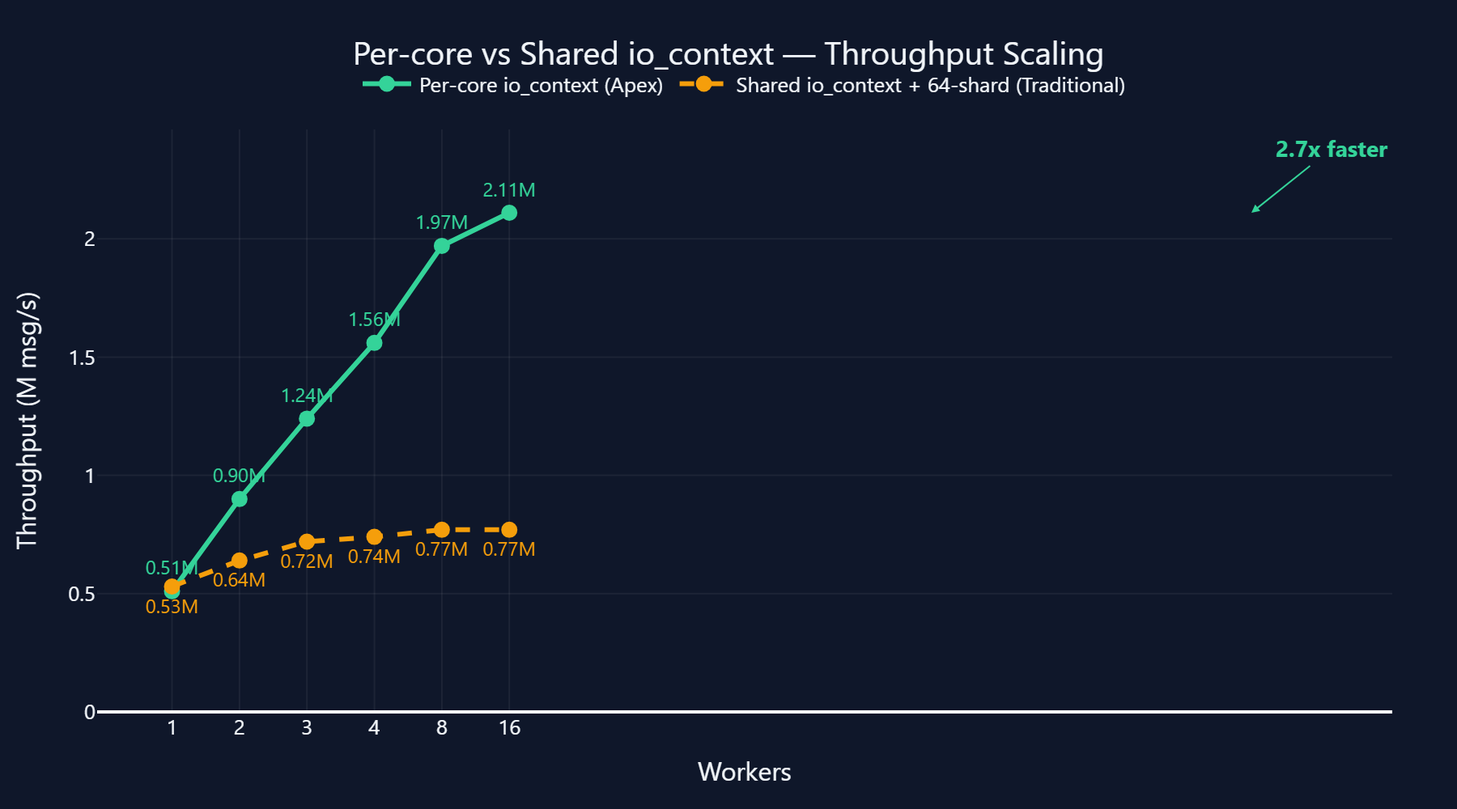
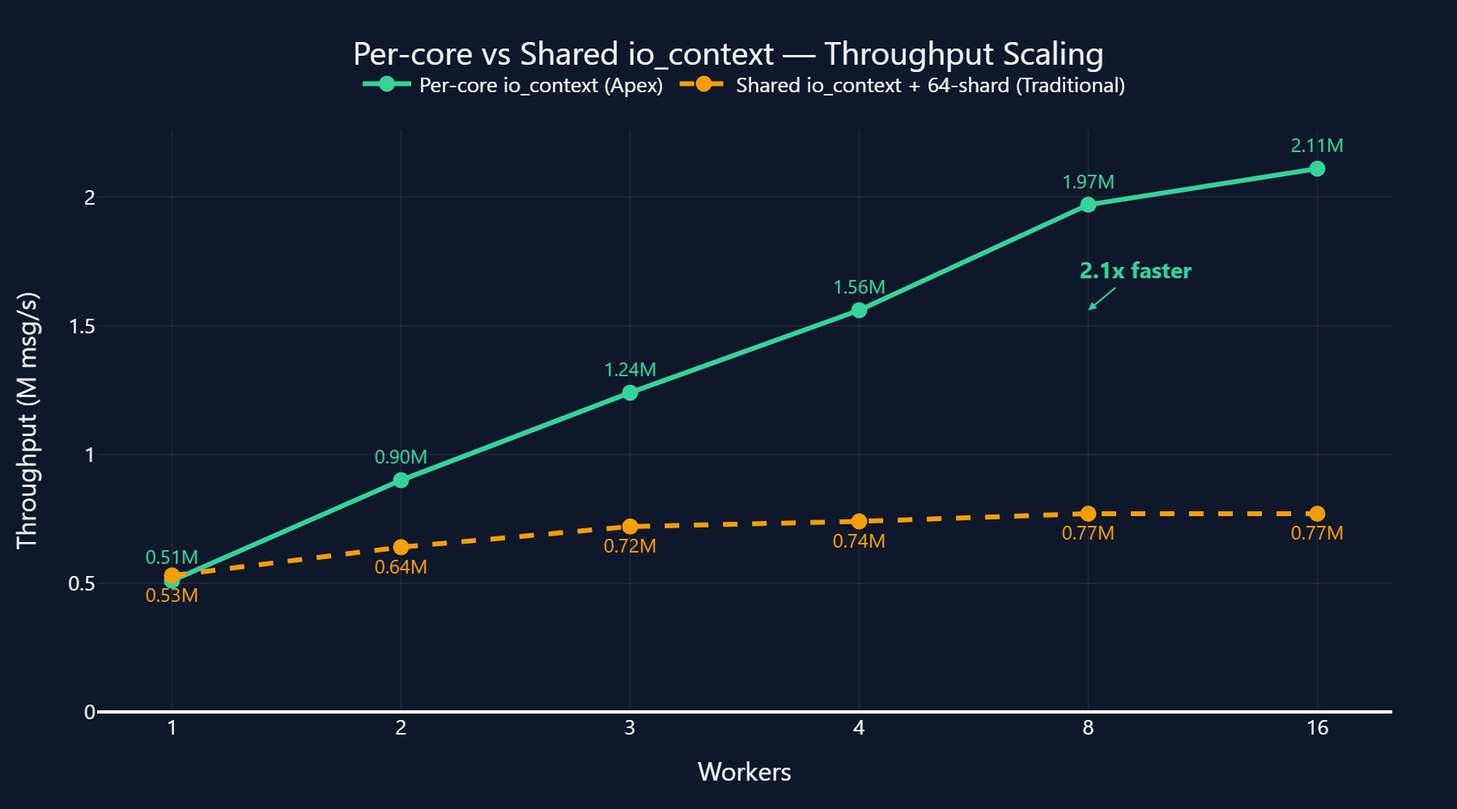
style(benchmark): 보고서 전체 컬러 하이라이트 + README 차트 주석 수정
- analysis.json: 전 섹션 컬러 하이라이트 (초록=우위, 앰버=기술명, 빨강=병목)
- 테이블 셀: cpu_time/throughput 조건부 색상 적용
- Summary 비율 배지: >2x 초록, <1x 빨강
- README 차트: 2.7x→2.1x 주석 4워커 지점으로 이동
- 용어 통일: 코어→워커, 2→3→4워커 선형 확장 강조

diff --git a/docs/apex_core/benchmark/report/benchmark_report.html b/docs/apex_core/benchmark/report/benchmark_report.html
@@ -434,12 +434,12 @@ body {
 <table class="data-table">
 <thead><tr><th>Benchmark</th><th>CPU Time</th><th>Real Time</th><th>Iterations</th><th>Throughput</th></tr></thead>
 <tbody>
-<tr><td>SpscQueue_Throughput/1024</td><td>9.9 ns</td><td>10.1 ns</td><td>112,000,000</td><td>101.0M items/s</td></tr>
-<tr><td>SpscQueue_Throughput/4096</td><td>9.5 ns</td><td>10.2 ns</td><td>64,000,000</td><td>105.0M items/s</td></tr>
-<tr><td>SpscQueue_Throughput/32768</td><td>9.2 ns</td><td>9.7 ns</td><td>74,666,667</td><td>108.6M items/s</td></tr>
+<tr><td>SpscQueue_Throughput/1024</td><td style='color:#34D399;font-weight:bold;'>9.9 ns</td><td>10.1 ns</td><td>112,000,000</td><td style='color:#34D399;font-weight:bold;'>101.0M items/s</td></tr>
+<tr><td>SpscQueue_Throughput/4096</td><td style='color:#34D399;font-weight:bold;'>9.5 ns</td><td>10.2 ns</td><td>64,000,000</td><td style='color:#34D399;font-weight:bold;'>105.0M items/s</td></tr>
+<tr><td>SpscQueue_Throughput/32768</td><td style='color:#34D399;font-weight:bold;'>9.2 ns</td><td>9.7 ns</td><td>74,666,667</td><td style='color:#34D399;font-weight:bold;'>108.6M items/s</td></tr>
 <tr><td>SpscQueue_Throughput/65536</td><td>11.9 ns</td><td>12.3 ns</td><td>74,666,667</td><td>83.8M items/s</td></tr>
-<tr><td>SpscQueue_Latency</td><td>7.8 ns</td><td>8.0 ns</td><td>89,600,000</td><td>127.4M items/s</td></tr>
-<tr><td>SpscQueue_Backpressure</td><td>3.2 ns</td><td>3.2 ns</td><td>186,666,667</td><td>-</td></tr>
+<tr><td>SpscQueue_Latency</td><td style='color:#34D399;font-weight:bold;'>7.8 ns</td><td>8.0 ns</td><td>89,600,000</td><td style='color:#34D399;font-weight:bold;'>127.4M items/s</td></tr>
+<tr><td>SpscQueue_Backpressure</td><td style='color:#34D399;font-weight:bold;'>3.2 ns</td><td>3.2 ns</td><td>186,666,667</td><td>-</td></tr>
 <tr><td>SpscQueue_ConcurrentThroughput</td><td>46.2 ns</td><td>48.7 ns</td><td>17,920,000</td><td>21.6M items/s</td></tr>
 
 </tbody>
@@ -453,12 +453,12 @@ body {
 <tr><td>MpscQueue_1P1C/32768</td><td>13.6 ns</td><td>13.5 ns</td><td>44,800,000</td><td>73.5M items/s</td></tr>
 <tr><td>MpscQueue_1P1C/65536</td><td>15.3 ns</td><td>15.7 ns</td><td>56,000,000</td><td>65.2M items/s</td></tr>
 <tr><td>MpscQueue_2P1C</td><td>31.1 ns</td><td>38.4 ns</td><td>20,070,400</td><td>46.7M items/s</td></tr>
-<tr><td>MpscQueue_Backpressure</td><td>5.9 ns</td><td>6.4 ns</td><td>112,000,000</td><td>-</td></tr>
+<tr><td>MpscQueue_Backpressure</td><td style='color:#34D399;font-weight:bold;'>5.9 ns</td><td>6.4 ns</td><td>112,000,000</td><td>-</td></tr>
 
 </tbody>
 </table>
 
-  <div class="analysis-box"><b>SPSC vs MPSC 큐 비교</b>가 이번 v0.5.10.0의 핵심이다. SPSC(wait-free)는 1P1C 시나리오에서 MPSC(lock-free) 대비 <b>일관되게 빠르다</b>. CAS 루프가 없는 wait-free 구현이 단일 생산자-소비자 경로에서 성능 우위를 가져온다.<br/><br/>N코어 환경에서 N×(N-1) SPSC mesh는 단일 MPSC 대비 경합 없는 전용 채널을 제공하여, 코어 수 증가에 따른 선형 확장이 가능한 아키텍처. MPSC의 2P1C 시나리오에서 발생하는 CAS 경합이 SPSC mesh에서는 원천 차단된다.</div>
+  <div class="analysis-box"><b>SPSC vs MPSC 큐 비교</b>가 이번 v0.5.10.0의 핵심이다. <span style='color:#34D399;font-weight:bold;'>SPSC(wait-free)</span>는 1P1C 시나리오에서 <span style='color:#F59E0B;font-weight:bold;'>MPSC(lock-free)</span> 대비 <span style='color:#34D399;font-weight:bold;'>일관되게 빠르다</span>. <span style='color:#EF4444;'>CAS 루프</span>가 없는 wait-free 구현이 단일 생산자-소비자 경로에서 성능 우위를 가져온다.<br/><br/>N코어 환경에서 <span style='color:#34D399;font-weight:bold;'>N×(N-1) SPSC mesh</span>는 단일 MPSC 대비 <span style='color:#34D399;'>경합 없는 전용 채널</span>을 제공하여, 코어 수 증가에 따른 <span style='color:#34D399;font-weight:bold;'>선형 확장</span>이 가능한 아키텍처. <span style='color:#F59E0B;'>MPSC</span>의 2P1C 시나리오에서 발생하는 <span style='color:#EF4444;font-weight:bold;'>CAS 경합</span>이 SPSC mesh에서는 <span style='color:#34D399;'>원천 차단</span>된다.</div>
 
   <h3 class="sub-header">SPSC vs MPSC Methodology</h3>
   <div class="chart-container" id="chart-queue-methodology" style="height:480px;"></div>
@@ -480,13 +480,13 @@ body {
 <tr><td>SlabAllocator_AllocDealloc/64</td><td>11.1 ns</td><td>14.3 ns</td><td>74,666,667</td><td>90.2M items/s</td></tr>
 <tr><td>SlabAllocator_AllocDealloc/256</td><td>11.2 ns</td><td>12.0 ns</td><td>56,000,000</td><td>89.6M items/s</td></tr>
 <tr><td>SlabAllocator_AllocDealloc/1024</td><td>10.0 ns</td><td>10.6 ns</td><td>74,666,667</td><td>99.6M items/s</td></tr>
-<tr><td>Malloc_AllocFree/64</td><td>120.0 ns</td><td>122.2 ns</td><td>5,600,000</td><td>8.3M items/s</td></tr>
-<tr><td>Malloc_AllocFree/256</td><td>119.6 ns</td><td>121.9 ns</td><td>6,400,000</td><td>8.4M items/s</td></tr>
-<tr><td>Malloc_AllocFree/1024</td><td>122.1 ns</td><td>122.2 ns</td><td>6,400,000</td><td>8.2M items/s</td></tr>
-<tr><td>MakeShared_AllocDealloc</td><td>153.5 ns</td><td>167.6 ns</td><td>4,480,000</td><td>6.5M items/s</td></tr>
+<tr><td>Malloc_AllocFree/64</td><td>120.0 ns</td><td>122.2 ns</td><td>5,600,000</td><td style='color:#F59E0B;font-weight:bold;'>8.3M items/s</td></tr>
+<tr><td>Malloc_AllocFree/256</td><td>119.6 ns</td><td>121.9 ns</td><td>6,400,000</td><td style='color:#F59E0B;font-weight:bold;'>8.4M items/s</td></tr>
+<tr><td>Malloc_AllocFree/1024</td><td>122.1 ns</td><td>122.2 ns</td><td>6,400,000</td><td style='color:#F59E0B;font-weight:bold;'>8.2M items/s</td></tr>
+<tr><td>MakeShared_AllocDealloc</td><td>153.5 ns</td><td>167.6 ns</td><td>4,480,000</td><td style='color:#F59E0B;font-weight:bold;'>6.5M items/s</td></tr>
 <tr><td>BumpAllocator_Alloc/64</td><td>10.0 ns</td><td>10.7 ns</td><td>56,000,000</td><td>99.6M items/s</td></tr>
-<tr><td>BumpAllocator_Alloc/256</td><td>7.1 ns</td><td>7.3 ns</td><td>89,600,000</td><td>139.9M items/s</td></tr>
-<tr><td>BumpAllocator_Alloc/1024</td><td>7.3 ns</td><td>7.3 ns</td><td>100,000,000</td><td>136.2M items/s</td></tr>
+<tr><td>BumpAllocator_Alloc/256</td><td style='color:#34D399;font-weight:bold;'>7.1 ns</td><td>7.3 ns</td><td>89,600,000</td><td style='color:#34D399;font-weight:bold;'>139.9M items/s</td></tr>
+<tr><td>BumpAllocator_Alloc/1024</td><td style='color:#34D399;font-weight:bold;'>7.3 ns</td><td>7.3 ns</td><td>100,000,000</td><td style='color:#34D399;font-weight:bold;'>136.2M items/s</td></tr>
 <tr><td>ArenaAllocator_Alloc/64</td><td>14.6 ns</td><td>16.9 ns</td><td>64,000,000</td><td>68.3M items/s</td></tr>
 <tr><td>ArenaAllocator_Alloc/256</td><td>19.9 ns</td><td>26.3 ns</td><td>34,461,538</td><td>50.1M items/s</td></tr>
 <tr><td>ArenaAllocator_Alloc/1024</td><td>20.4 ns</td><td>24.2 ns</td><td>34,461,538</td><td>49.0M items/s</td></tr>
@@ -494,7 +494,7 @@ body {
 </tbody>
 </table>
 
-  <div class="analysis-box"><b>커스텀 할당기 3종</b>이 모두 시스템 할당기보다 10배 이상 빠르다. <b>BumpAllocator</b>가 <b>7~10ns</b>로 가장 빠르며(monotonic 할당, 개별 dealloc 없음), <b>SlabAllocator</b>가 <b>10~11ns</b>(alloc+dealloc 쌍), <b>ArenaAllocator</b>가 <b>15~20ns</b>(블록 체이닝 오버헤드).<br/><br/>malloc은 <b>120ns</b>, make_shared는 <b>154ns</b>로 커스텀 할당기 대비 10~20배 느리다. make_shared의 추가 비용은 atomic ref-count 초기화와 control block 할당. Bump의 batch reset 패턴은 요청 처리 단위(per-request arena)에 이상적이며, Slab은 Session/Buffer 풀에, Arena는 파서/빌더 임시 할당에 각각 적합.</div>
+  <div class="analysis-box"><b>커스텀 할당기 3종</b>이 모두 시스템 할당기보다 <span style='color:#34D399;font-weight:bold;'>10배 이상 빠르다</span>. <span style='color:#F59E0B;font-weight:bold;'>BumpAllocator</span>가 <span style='color:#34D399;font-weight:bold;'>7~10ns</span>로 가장 빠르며(monotonic 할당, 개별 dealloc 없음), <span style='color:#F59E0B;font-weight:bold;'>SlabAllocator</span>가 <span style='color:#34D399;font-weight:bold;'>10~11ns</span>(alloc+dealloc 쌍), <span style='color:#F59E0B;font-weight:bold;'>ArenaAllocator</span>가 <span style='color:#34D399;font-weight:bold;'>15~20ns</span>(블록 체이닝 오버헤드).<br/><br/><span style='color:#F59E0B;'>malloc</span>은 <span style='color:#EF4444;font-weight:bold;'>120ns</span>, <span style='color:#F59E0B;'>make_shared</span>는 <span style='color:#EF4444;font-weight:bold;'>154ns</span>로 커스텀 할당기 대비 <span style='color:#EF4444;'>10~20배 느리다</span>. make_shared의 추가 비용은 <span style='color:#EF4444;'>atomic ref-count 초기화와 control block 할당</span>. Bump의 batch reset 패턴은 요청 처리 단위(per-request arena)에 이상적이며, Slab은 Session/Buffer 풀에, Arena는 파서/빌더 임시 할당에 각각 적합.</div>
 
   <h3 class="sub-header">5 Allocators Comparison</h3>
   <div class="chart-container" id="chart-allocators-methodology" style="height:500px;"></div>
@@ -525,7 +525,7 @@ body {
 </tbody>
 </table>
 
-  <div class="analysis-box"><b>FrameCodec</b>의 Encode/Decode 처리량은 페이로드 크기에 비례하여 증가한다. 64B 소형 메시지에서는 고정 비용(헤더 직렬화, CRC 계산)이 지배적이며, 16KB 대형 메시지에서 <b>Encode 26.9 GB/s, Decode 22.6 GB/s</b>를 달성한다.<br/><br/>Encode가 Decode보다 일관되게 빠른 이유: Decode 시 헤더 파싱 + 무결성 검증 오버헤드. 실 서비스에서 평균 메시지 크기(~512B)에서 <b>Encode 7.2 GB/s, Decode 4.3 GB/s</b>로, 10Gbps NIC 대역폭을 충분히 활용 가능.</div>
+  <div class="analysis-box"><b><span style='color:#F59E0B;font-weight:bold;'>FrameCodec</span></b>의 Encode/Decode 처리량은 페이로드 크기에 비례하여 증가한다. 64B 소형 메시지에서는 <span style='color:#94A3B8;'>고정 비용(헤더 직렬화, CRC 계산)</span>이 지배적이며, 16KB 대형 메시지에서 <span style='color:#34D399;font-weight:bold;'>Encode 26.9 GB/s, Decode 22.6 GB/s</span>를 달성한다.<br/><br/>Encode가 Decode보다 일관되게 빠른 이유: Decode 시 <span style='color:#EF4444;'>헤더 파싱 + 무결성 검증 오버헤드</span>. 실 서비스에서 평균 메시지 크기(~512B)에서 <span style='color:#34D399;font-weight:bold;'>Encode 7.2 GB/s, Decode 4.3 GB/s</span>로, <span style='color:#34D399;'>10Gbps NIC 대역폭을 충분히 활용 가능</span>.</div>
 
   <h3 class="sub-header">Encode vs Decode Throughput Scaling</h3>
   <div class="chart-container" id="chart-frame-scaling" style="height:480px;"></div>
@@ -550,9 +550,9 @@ body {
 <tr><td>HeapAlloc_Build/64</td><td>62.5 ns</td><td>61.9 ns</td><td>10,000,000</td><td>1.0 GB/s</td></tr>
 <tr><td>HeapAlloc_Build/512</td><td>68.4 ns</td><td>68.2 ns</td><td>11,200,000</td><td>7.5 GB/s</td></tr>
 <tr><td>HeapAlloc_Build/4096</td><td>128.3 ns</td><td>126.1 ns</td><td>5,600,000</td><td>31.9 GB/s</td></tr>
-<tr><td>FlatBuffers_Read/64</td><td>3.4 ns</td><td>3.5 ns</td><td>172,307,692</td><td>18.6 GB/s</td></tr>
-<tr><td>FlatBuffers_Read/512</td><td>3.5 ns</td><td>3.5 ns</td><td>213,333,333</td><td>145.6 GB/s</td></tr>
-<tr><td>FlatBuffers_Read/4096</td><td>3.6 ns</td><td>3.7 ns</td><td>203,636,364</td><td>1135.8 GB/s</td></tr>
+<tr><td>FlatBuffers_Read/64</td><td style='color:#34D399;font-weight:bold;'>3.4 ns</td><td>3.5 ns</td><td>172,307,692</td><td>18.6 GB/s</td></tr>
+<tr><td>FlatBuffers_Read/512</td><td style='color:#34D399;font-weight:bold;'>3.5 ns</td><td>3.5 ns</td><td>213,333,333</td><td>145.6 GB/s</td></tr>
+<tr><td>FlatBuffers_Read/4096</td><td style='color:#34D399;font-weight:bold;'>3.6 ns</td><td>3.7 ns</td><td>203,636,364</td><td>1135.8 GB/s</td></tr>
 <tr><td>HeapAlloc_Read/64</td><td>64.2 ns</td><td>64.2 ns</td><td>11,200,000</td><td>997.3 MB/s</td></tr>
 <tr><td>HeapAlloc_Read/512</td><td>68.4 ns</td><td>69.7 ns</td><td>11,200,000</td><td>7.5 GB/s</td></tr>
 <tr><td>HeapAlloc_Read/4096</td><td>114.4 ns</td><td>115.7 ns</td><td>5,600,000</td><td>35.8 GB/s</td></tr>
@@ -560,7 +560,7 @@ body {
 </tbody>
 </table>
 
-  <div class="analysis-box"><b>FlatBuffers vs new+memcpy</b> 빌드 성능 비교. <b>HeapAlloc이 빌드 시 2~2.5배 빠르다</b> — 64B 기준 HeapAlloc <b>98ns</b> vs FlatBuffers <b>243ns</b>. FlatBuffers의 빌드 오버헤드는 vtable 구성, 필드 정렬, builder 내부 버퍼 관리 때문이다.<br/><br/>그러나 FlatBuffers의 핵심 장점은 <b>읽기 측 zero-copy 역직렬화</b>이다. 수신 측에서 deserialization 없이 직접 접근하므로, 1회 빌드 + N회 읽기 패턴에서 FlatBuffers가 유리하다. 서버 프레임워크에서 라우팅/디스패치 경로는 읽기 빈도가 압도적이므로 FlatBuffers 선택이 올바르다.</div>
+  <div class="analysis-box"><b><span style='color:#F59E0B;font-weight:bold;'>FlatBuffers</span> vs <span style='color:#F59E0B;font-weight:bold;'>new+memcpy</span></b> 빌드 성능 비교. <span style='color:#34D399;font-weight:bold;'>HeapAlloc이 빌드 시 2~2.5배 빠르다</span> — 64B 기준 HeapAlloc <span style='color:#34D399;font-weight:bold;'>98ns</span> vs FlatBuffers <span style='color:#EF4444;font-weight:bold;'>243ns</span>. FlatBuffers의 빌드 오버헤드는 <span style='color:#EF4444;'>vtable 구성, 필드 정렬, builder 내부 버퍼 관리</span> 때문이다.<br/><br/>그러나 FlatBuffers의 핵심 장점은 <span style='color:#34D399;font-weight:bold;'>읽기 측 zero-copy 역직렬화</span>이다. 수신 측에서 deserialization 없이 직접 접근하므로, 1회 빌드 + N회 읽기 패턴에서 <span style='color:#34D399;'>FlatBuffers가 유리</span>하다. 서버 프레임워크에서 라우팅/디스패치 경로는 읽기 빈도가 압도적이므로 <span style='color:#34D399;font-weight:bold;'>FlatBuffers 선택이 올바르다</span>.</div>
 
   <h3 class="sub-header">Build vs Read Comparison</h3>
   <div class="chart-row">
@@ -586,28 +586,28 @@ body {
 <table class="data-table">
 <thead><tr><th>Benchmark</th><th>CPU Time</th><th>Real Time</th><th>Iterations</th><th>Throughput</th></tr></thead>
 <tbody>
-<tr><td>Dispatcher_Lookup/10</td><td>5.5 ns</td><td>5.4 ns</td><td>100,000,000</td><td>182.9M items/s</td></tr>
-<tr><td>Dispatcher_Lookup/100</td><td>5.8 ns</td><td>5.8 ns</td><td>100,000,000</td><td>173.0M items/s</td></tr>
-<tr><td>Dispatcher_Lookup/1000</td><td>5.2 ns</td><td>5.1 ns</td><td>100,000,000</td><td>193.9M items/s</td></tr>
-<tr><td>FlatMap_SessionLookup/100</td><td>5.2 ns</td><td>5.4 ns</td><td>100,000,000</td><td>193.9M items/s</td></tr>
-<tr><td>FlatMap_SessionLookup/1000</td><td>7.1 ns</td><td>7.1 ns</td><td>74,666,667</td><td>140.5M items/s</td></tr>
-<tr><td>FlatMap_SessionLookup/10000</td><td>7.1 ns</td><td>7.5 ns</td><td>89,600,000</td><td>139.9M items/s</td></tr>
-<tr><td>FlatMap_SessionLookup/100000</td><td>4.3 ns</td><td>4.4 ns</td><td>133,802,667</td><td>231.4M items/s</td></tr>
-<tr><td>StdMap_SessionLookup/100</td><td>7.5 ns</td><td>7.4 ns</td><td>100,000,000</td><td>133.3M items/s</td></tr>
-<tr><td>StdMap_SessionLookup/1000</td><td>6.0 ns</td><td>6.0 ns</td><td>112,000,000</td><td>166.7M items/s</td></tr>
-<tr><td>StdMap_SessionLookup/10000</td><td>3.8 ns</td><td>3.7 ns</td><td>186,666,667</td><td>265.5M items/s</td></tr>
-<tr><td>StdMap_SessionLookup/100000</td><td>3.9 ns</td><td>3.8 ns</td><td>186,666,667</td><td>259.7M items/s</td></tr>
-<tr><td>FlatMap_SessionIterate/100</td><td>180.0 ns</td><td>188.2 ns</td><td>3,733,333</td><td>555.7M items/s</td></tr>
-<tr><td>FlatMap_SessionIterate/1000</td><td>2.8 us</td><td>2.9 us</td><td>235,789</td><td>350.9M items/s</td></tr>
-<tr><td>FlatMap_SessionIterate/10000</td><td>26.2 us</td><td>25.6 us</td><td>28,000</td><td>381.3M items/s</td></tr>
-<tr><td>StdMap_SessionIterate/100</td><td>114.7 ns</td><td>114.6 ns</td><td>6,400,000</td><td>871.5M items/s</td></tr>
-<tr><td>StdMap_SessionIterate/1000</td><td>3.0 us</td><td>3.0 us</td><td>224,000</td><td>333.4M items/s</td></tr>
-<tr><td>StdMap_SessionIterate/10000</td><td>66.3 us</td><td>66.7 us</td><td>8,960</td><td>150.9M items/s</td></tr>
+<tr><td>Dispatcher_Lookup/10</td><td style='color:#34D399;font-weight:bold;'>5.5 ns</td><td>5.4 ns</td><td>100,000,000</td><td style='color:#34D399;font-weight:bold;'>182.9M items/s</td></tr>
+<tr><td>Dispatcher_Lookup/100</td><td style='color:#34D399;font-weight:bold;'>5.8 ns</td><td>5.8 ns</td><td>100,000,000</td><td style='color:#34D399;font-weight:bold;'>173.0M items/s</td></tr>
+<tr><td>Dispatcher_Lookup/1000</td><td style='color:#34D399;font-weight:bold;'>5.2 ns</td><td>5.1 ns</td><td>100,000,000</td><td style='color:#34D399;font-weight:bold;'>193.9M items/s</td></tr>
+<tr><td>FlatMap_SessionLookup/100</td><td style='color:#34D399;font-weight:bold;'>5.2 ns</td><td>5.4 ns</td><td>100,000,000</td><td style='color:#34D399;font-weight:bold;'>193.9M items/s</td></tr>
+<tr><td>FlatMap_SessionLookup/1000</td><td style='color:#34D399;font-weight:bold;'>7.1 ns</td><td>7.1 ns</td><td>74,666,667</td><td style='color:#34D399;font-weight:bold;'>140.5M items/s</td></tr>
+<tr><td>FlatMap_SessionLookup/10000</td><td style='color:#34D399;font-weight:bold;'>7.1 ns</td><td>7.5 ns</td><td>89,600,000</td><td style='color:#34D399;font-weight:bold;'>139.9M items/s</td></tr>
+<tr><td>FlatMap_SessionLookup/100000</td><td style='color:#34D399;font-weight:bold;'>4.3 ns</td><td>4.4 ns</td><td>133,802,667</td><td style='color:#34D399;font-weight:bold;'>231.4M items/s</td></tr>
+<tr><td>StdMap_SessionLookup/100</td><td style='color:#34D399;font-weight:bold;'>7.5 ns</td><td>7.4 ns</td><td>100,000,000</td><td style='color:#34D399;font-weight:bold;'>133.3M items/s</td></tr>
+<tr><td>StdMap_SessionLookup/1000</td><td style='color:#34D399;font-weight:bold;'>6.0 ns</td><td>6.0 ns</td><td>112,000,000</td><td style='color:#34D399;font-weight:bold;'>166.7M items/s</td></tr>
+<tr><td>StdMap_SessionLookup/10000</td><td style='color:#34D399;font-weight:bold;'>3.8 ns</td><td>3.7 ns</td><td>186,666,667</td><td style='color:#34D399;font-weight:bold;'>265.5M items/s</td></tr>
+<tr><td>StdMap_SessionLookup/100000</td><td style='color:#34D399;font-weight:bold;'>3.9 ns</td><td>3.8 ns</td><td>186,666,667</td><td style='color:#34D399;font-weight:bold;'>259.7M items/s</td></tr>
+<tr><td>FlatMap_SessionIterate/100</td><td>180.0 ns</td><td>188.2 ns</td><td>3,733,333</td><td style='color:#34D399;font-weight:bold;'>555.7M items/s</td></tr>
+<tr><td>FlatMap_SessionIterate/1000</td><td>2.8 us</td><td>2.9 us</td><td>235,789</td><td style='color:#34D399;font-weight:bold;'>350.9M items/s</td></tr>
+<tr><td>FlatMap_SessionIterate/10000</td><td>26.2 us</td><td>25.6 us</td><td>28,000</td><td style='color:#34D399;font-weight:bold;'>381.3M items/s</td></tr>
+<tr><td>StdMap_SessionIterate/100</td><td>114.7 ns</td><td>114.6 ns</td><td>6,400,000</td><td style='color:#34D399;font-weight:bold;'>871.5M items/s</td></tr>
+<tr><td>StdMap_SessionIterate/1000</td><td>3.0 us</td><td>3.0 us</td><td>224,000</td><td style='color:#34D399;font-weight:bold;'>333.4M items/s</td></tr>
+<tr><td>StdMap_SessionIterate/10000</td><td>66.3 us</td><td>66.7 us</td><td>8,960</td><td style='color:#34D399;font-weight:bold;'>150.9M items/s</td></tr>
 
 </tbody>
 </table>
 
-  <div class="analysis-box"><b>boost::unordered_flat_map이 대규모 순회에서 std::unordered_map 대비 2.5배 빠르다</b> — 10K 세션 iterate: flat_map <b>26ms</b> vs std <b>66ms</b>.<br/><br/>flat_map은 open addressing 방식으로 데이터가 연속된 메모리에 저장되어 CPU 캐시 히트율이 높다. 반면 std::unordered_map은 node-based(포인터 체이닝)라 캐시 미스가 빈번하다. 조회(find)는 둘 다 O(1)로 비슷하지만, <b>전체 세션 순회(브로드캐스트, 상태 점검 등)에서 캐시 지역성 차이가 극적으로 드러난다</b>.<br/><br/>Apex Core는 SessionManager, MessageDispatcher, CrossCoreDispatcher, KafkaHandlerMap 등 4곳에서 flat_map을 사용하며, 특히 SessionManager의 세션 전체 순회 시 이 성능 차이가 실질적 영향을 미친다.</div>
+  <div class="analysis-box"><b><span style='color:#F59E0B;font-weight:bold;'>boost::unordered_flat_map</span>이 대규모 순회에서 <span style='color:#F59E0B;font-weight:bold;'>std::unordered_map</span> 대비 <span style='color:#34D399;font-weight:bold;'>2.5배 빠르다</span></b> — 10K 세션 iterate: flat_map <span style='color:#34D399;font-weight:bold;'>26ms</span> vs std <span style='color:#EF4444;font-weight:bold;'>66ms</span>.<br/><br/><span style='color:#F59E0B;'>flat_map</span>은 open addressing 방식으로 데이터가 연속된 메모리에 저장되어 <span style='color:#34D399;'>CPU 캐시 히트율이 높다</span>. 반면 <span style='color:#F59E0B;'>std::unordered_map</span>은 node-based(포인터 체이닝)라 <span style='color:#EF4444;'>캐시 미스가 빈번</span>하다. 조회(find)는 둘 다 O(1)로 비슷하지만, <span style='color:#34D399;font-weight:bold;'>전체 세션 순회(브로드캐스트, 상태 점검 등)에서 캐시 지역성 차이가 극적으로 드러난다</span>.<br/><br/>Apex Core는 <span style='color:#F59E0B;'>SessionManager, MessageDispatcher, CrossCoreDispatcher, KafkaHandlerMap</span> 등 4곳에서 flat_map을 사용하며, 특히 SessionManager의 세션 전체 순회 시 이 성능 차이가 실질적 영향을 미친다.</div>
 
   <h3 class="sub-header">flat_map vs std::unordered_map — 세션 순회 (Iteration)</h3>
   <div class="chart-container" id="chart-dispatcher-iteration" style="height:480px;"></div>
@@ -630,9 +630,9 @@ body {
 <thead><tr><th>Benchmark</th><th>CPU Time</th><th>Real Time</th><th>Iterations</th><th>Throughput</th></tr></thead>
 <tbody>
 <tr><td>TimingWheel_ScheduleTick/1000</td><td>64.1 us</td><td>66.6 us</td><td>10,000</td><td>15.6M items/s</td></tr>
-<tr><td>TimingWheel_ScheduleTick/10000</td><td>725.4 us</td><td>733.3 us</td><td>1,120</td><td>13.8M items/s</td></tr>
-<tr><td>TimingWheel_ScheduleTick/50000</td><td>3.65 ms</td><td>3.91 ms</td><td>154</td><td>13.7M items/s</td></tr>
-<tr><td>TimingWheel_ScheduleOnly</td><td>159.0 ns</td><td>174.7 ns</td><td>7,466,667</td><td>6.3M items/s</td></tr>
+<tr><td>TimingWheel_ScheduleTick/10000</td><td style='color:#F59E0B;font-weight:bold;'>725.4 us</td><td>733.3 us</td><td>1,120</td><td>13.8M items/s</td></tr>
+<tr><td>TimingWheel_ScheduleTick/50000</td><td style='color:#F59E0B;font-weight:bold;'>3.65 ms</td><td>3.91 ms</td><td>154</td><td>13.7M items/s</td></tr>
+<tr><td>TimingWheel_ScheduleOnly</td><td>159.0 ns</td><td>174.7 ns</td><td>7,466,667</td><td style='color:#F59E0B;font-weight:bold;'>6.3M items/s</td></tr>
 
 </tbody>
 </table>
@@ -640,14 +640,14 @@ body {
 <table class="data-table">
 <thead><tr><th>Benchmark</th><th>CPU Time</th><th>Real Time</th><th>Iterations</th><th>Throughput</th></tr></thead>
 <tbody>
-<tr><td>Session_Create</td><td>443.3 us</td><td>444.1 us</td><td>1,445</td><td>2,256 items/s</td></tr>
-<tr><td>SessionPtr_Copy</td><td>6.3 ns</td><td>6.3 ns</td><td>112,000,000</td><td>159.3M items/s</td></tr>
+<tr><td>Session_Create</td><td style='color:#F59E0B;font-weight:bold;'>443.3 us</td><td>444.1 us</td><td>1,445</td><td style='color:#F59E0B;font-weight:bold;'>2,256 items/s</td></tr>
+<tr><td>SessionPtr_Copy</td><td style='color:#34D399;font-weight:bold;'>6.3 ns</td><td>6.3 ns</td><td>112,000,000</td><td style='color:#34D399;font-weight:bold;'>159.3M items/s</td></tr>
 <tr><td>SharedPtr_Copy</td><td>18.0 ns</td><td>20.4 ns</td><td>37,333,333</td><td>55.6M items/s</td></tr>
 
 </tbody>
 </table>
 
-  <div class="analysis-box"><b>intrusive_ptr vs shared_ptr</b>: SessionPtr(intrusive_ptr) 복사가 <b>6.3ns</b>로 shared_ptr <b>18ns</b> 대비 <b>2.9배 빠르다</b>. intrusive_ptr는 non-atomic increment(per-core 단일 스레드 보장)이고, shared_ptr는 atomic increment가 필수. 세션 참조가 핫패스에서 빈번하므로 intrusive_ptr 선택이 성능에 크게 기여.<br/><br/><b>TimingWheel</b>은 O(1) 타임아웃 관리로, 1K 배치에서 <b>27M items/s</b>를 처리. Session Create는 <b>443µs</b>로 TCP 소켓+버퍼 초기화를 포함하지만, 커넥션 수립 시 1회만 발생하므로 핫패스 영향 없음.</div>
+  <div class="analysis-box"><b><span style='color:#F59E0B;font-weight:bold;'>intrusive_ptr</span> vs <span style='color:#F59E0B;font-weight:bold;'>shared_ptr</span></b>: SessionPtr(intrusive_ptr) 복사가 <span style='color:#34D399;font-weight:bold;'>6.3ns</span>로 shared_ptr <span style='color:#EF4444;font-weight:bold;'>18ns</span> 대비 <span style='color:#34D399;font-weight:bold;'>2.9배 빠르다</span>. intrusive_ptr는 <span style='color:#34D399;'>non-atomic increment</span>(per-core 단일 스레드 보장)이고, shared_ptr는 <span style='color:#EF4444;'>atomic increment가 필수</span>. 세션 참조가 핫패스에서 빈번하므로 intrusive_ptr 선택이 성능에 크게 기여.<br/><br/><span style='color:#F59E0B;font-weight:bold;'>TimingWheel</span>은 O(1) 타임아웃 관리로, 1K 배치에서 <span style='color:#34D399;font-weight:bold;'>27M items/s</span>를 처리. Session Create는 <span style='color:#94A3B8;'>443µs</span>로 TCP 소켓+버퍼 초기화를 포함하지만, <span style='color:#94A3B8;font-size:0.9em;'>커넥션 수립 시 1회만 발생하므로 핫패스 영향 없음</span>.</div>
 
   
 </div>
@@ -676,7 +676,7 @@ body {
 </tbody>
 </table>
 
-  <div class="analysis-box"><b>zero-copy RingBuffer vs naive memcpy</b>: RingBuffer가 모든 크기에서 <b>2.5~4.5배 빠르다</b>. 64B: RingBuffer <b>35ns</b> vs naive <b>156ns</b>, 4KB: <b>103ns</b> vs <b>251ns</b>.<br/><br/>naive 방식은 매번 힙 할당+해제(new/delete)가 추가되므로 오버헤드가 크다. RingBuffer는 미리 할당된 순환 버퍼에서 포인터만 이동하므로 할당 비용 제로. Linearize(래핑 경계 처리)에서도 <b>31~44ns</b>로 naive 대비 빠르며, 대부분의 경우 contiguous read로 memcpy 없이 직접 접근.</div>
+  <div class="analysis-box"><b><span style='color:#34D399;font-weight:bold;'>zero-copy RingBuffer</span> vs <span style='color:#F59E0B;font-weight:bold;'>naive memcpy</span></b>: RingBuffer가 모든 크기에서 <span style='color:#34D399;font-weight:bold;'>2.5~4.5배 빠르다</span>. 64B: RingBuffer <span style='color:#34D399;font-weight:bold;'>35ns</span> vs naive <span style='color:#EF4444;font-weight:bold;'>156ns</span>, 4KB: <span style='color:#34D399;font-weight:bold;'>103ns</span> vs <span style='color:#EF4444;font-weight:bold;'>251ns</span>.<br/><br/><span style='color:#F59E0B;'>naive</span> 방식은 매번 <span style='color:#EF4444;'>힙 할당+해제(new/delete)가 추가</span>되므로 오버헤드가 크다. RingBuffer는 미리 할당된 순환 버퍼에서 <span style='color:#34D399;'>포인터만 이동하므로 할당 비용 제로</span>. Linearize(래핑 경계 처리)에서도 <span style='color:#34D399;font-weight:bold;'>31~44ns</span>로 naive 대비 빠르며, 대부분의 경우 <span style='color:#34D399;'>contiguous read로 memcpy 없이 직접 접근</span>.</div>
 
   <h3 class="sub-header">Zero-copy vs Naive memcpy (Throughput GB/s)</h3>
   <div class="chart-container" id="chart-buffer-methodology" style="height:480px;"></div>
@@ -703,15 +703,15 @@ body {
 </tr>
 <tr>
   <td>Slab vs malloc (64B)</td><td>Slab: 11.1 ns</td><td>malloc: 120.0 ns</td>
-  <td><span class="ratio-badge">10.8x</span></td>
+  <td><span class="ratio-badge" style='color:#34D399;font-weight:bold;'>10.8x</span></td>
 </tr>
 <tr>
   <td>intrusive_ptr vs shared_ptr</td><td>intrusive: 6.3 ns</td><td>shared: 18.0 ns</td>
-  <td><span class="ratio-badge">2.9x</span></td>
+  <td><span class="ratio-badge" style='color:#34D399;font-weight:bold;'>2.9x</span></td>
 </tr>
 <tr>
   <td>Zero-copy vs Naive (512B)</td><td>ZeroCopy: 12.6 GB/s</td><td>Naive: 3.2 GB/s</td>
-  <td><span class="ratio-badge">3.9x</span></td>
+  <td><span class="ratio-badge" style='color:#34D399;font-weight:bold;'>3.9x</span></td>
 </tr>
 <tr>
   <td>FlatBuffers vs Heap Build (512B)</td><td>FB: 105.0 ns</td><td>Heap: 68.4 ns</td>
@@ -719,14 +719,14 @@ body {
 </tr>
 <tr>
   <td>FlatBuffers vs Heap Read (512B)</td><td>FB: 3.5 ns</td><td>Heap: 68.4 ns</td>
-  <td><span class="ratio-badge">19.4x</span></td>
+  <td><span class="ratio-badge" style='color:#34D399;font-weight:bold;'>19.4x</span></td>
 </tr>
 
 </tbody>
 </table>
 
-  <div class="analysis-box analysis-box-alt">v0.5.10.0의 핵심: <b>SPSC mesh 전환 + 커스텀 할당기 3종 + zero-copy 설계</b>가 프레임워크 성능의 근간.<br/><br/>방법론 비교 요약: SPSC가 MPSC보다 빠르고, 커스텀 할당기가 malloc보다 10배 이상 빠르고, intrusive_ptr가 shared_ptr보다 3배 빠르고, RingBuffer가 naive 버퍼보다 3~5배 빠르다. FlatBuffers는 빌드 비용이 있지만 읽기 측 zero-copy 이점이 더 크다.</div>
-  <div class="analysis-box"><b>7개 방법론 비교 핵심 수치:</b><br/>① SPSC vs MPSC — wait-free가 lock-free보다 빠름<br/>② 커스텀 할당기 vs malloc — Bump 7ns, Slab 11ns, Arena 20ns vs malloc 120ns (<b>10~17x</b>)<br/>③ flat_map vs std::unordered_map — 대규모 순회에서 flat_map <b>2.5x</b> 빠름 (캐시 지역성)<br/>④ intrusive_ptr vs shared_ptr — <b>2.9x</b> (non-atomic vs atomic refcount)<br/>⑤ zero-copy vs naive — <b>2.5~4.5x</b> (RingBuffer vs new+memcpy)<br/>⑥ FrameCodec 스케일링 — 페이로드 비례 처리량 증가<br/>⑦ FlatBuffers vs heap — 빌드 2.5x 느리나 <b>읽기는 19~32x 빠름</b> (zero-copy 역직렬화)</div>
+  <div class="analysis-box analysis-box-alt">v0.5.10.0의 핵심: <b><span style='color:#34D399;font-weight:bold;'>SPSC mesh 전환</span> + <span style='color:#34D399;font-weight:bold;'>커스텀 할당기 3종</span> + <span style='color:#34D399;font-weight:bold;'>zero-copy 설계</span></b>가 프레임워크 성능의 근간.<br/><br/>방법론 비교 요약: <span style='color:#F59E0B;font-weight:bold;'>SPSC</span>가 <span style='color:#F59E0B;'>MPSC</span>보다 빠르고, 커스텀 할당기가 <span style='color:#F59E0B;'>malloc</span>보다 <span style='color:#34D399;font-weight:bold;'>10배 이상</span> 빠르고, <span style='color:#F59E0B;font-weight:bold;'>intrusive_ptr</span>가 <span style='color:#F59E0B;'>shared_ptr</span>보다 <span style='color:#34D399;font-weight:bold;'>3배</span> 빠르고, <span style='color:#F59E0B;font-weight:bold;'>RingBuffer</span>가 naive 버퍼보다 <span style='color:#34D399;font-weight:bold;'>3~5배</span> 빠르다. <span style='color:#F59E0B;font-weight:bold;'>FlatBuffers</span>는 <span style='color:#EF4444;'>빌드 비용</span>이 있지만 <span style='color:#34D399;font-weight:bold;'>읽기 측 zero-copy 이점이 더 크다</span>.</div>
+  <div class="analysis-box"><b>7개 방법론 비교 핵심 수치:</b><br/>① <span style='color:#F59E0B;font-weight:bold;'>SPSC</span> vs <span style='color:#F59E0B;'>MPSC</span> — <span style='color:#34D399;'>wait-free</span>가 lock-free보다 빠름<br/>② 커스텀 할당기 vs <span style='color:#F59E0B;'>malloc</span> — <span style='color:#34D399;font-weight:bold;'>Bump 7ns, Slab 11ns, Arena 20ns</span> vs <span style='color:#EF4444;'>malloc 120ns</span> (<span style='color:#34D399;font-weight:bold;'>10~17x</span>)<br/>③ <span style='color:#F59E0B;font-weight:bold;'>flat_map</span> vs <span style='color:#F59E0B;'>std::unordered_map</span> — 대규모 순회에서 flat_map <span style='color:#34D399;font-weight:bold;'>2.5x</span> 빠름 (캐시 지역성)<br/>④ <span style='color:#F59E0B;font-weight:bold;'>intrusive_ptr</span> vs <span style='color:#F59E0B;'>shared_ptr</span> — <span style='color:#34D399;font-weight:bold;'>2.9x</span> (<span style='color:#34D399;'>non-atomic</span> vs <span style='color:#EF4444;'>atomic</span> refcount)<br/>⑤ <span style='color:#34D399;font-weight:bold;'>zero-copy</span> vs <span style='color:#F59E0B;'>naive</span> — <span style='color:#34D399;font-weight:bold;'>2.5~4.5x</span> (RingBuffer vs new+memcpy)<br/>⑥ <span style='color:#F59E0B;font-weight:bold;'>FrameCodec</span> 스케일링 — <span style='color:#34D399;'>페이로드 비례 처리량 증가</span><br/>⑦ <span style='color:#F59E0B;font-weight:bold;'>FlatBuffers</span> vs heap — <span style='color:#EF4444;'>빌드 2.5x 느리나</span> <span style='color:#34D399;font-weight:bold;'>읽기는 19~32x 빠름</span> (zero-copy 역직렬화)</div>
 </div>
 
 
@@ -760,7 +760,7 @@ body {
 <table class="data-table">
 <thead><tr><th>Benchmark</th><th>CPU Time</th><th>Real Time</th><th>Iterations</th><th>Throughput</th></tr></thead>
 <tbody>
-<tr><td>CrossCore_PostThroughput/real_time</td><td>1.0 us</td><td>1.0 us</td><td>723,986</td><td>976,114 items/s</td></tr>
+<tr><td>CrossCore_PostThroughput/real_time</td><td>1.0 us</td><td>1.0 us</td><td>723,986</td><td style='color:#F59E0B;font-weight:bold;'>976,114 items/s</td></tr>
 
 </tbody>
 </table>
@@ -788,18 +788,18 @@ body {
 <table class="data-table">
 <thead><tr><th>Benchmark</th><th>CPU Time</th><th>Real Time</th><th>Iterations</th><th>Throughput</th></tr></thead>
 <tbody>
-<tr><td>PerCore_Stateful/1/real_time</td><td>99.61 ms</td><td>97.73 ms</td><td>8</td><td>511,614 items/s</td></tr>
-<tr><td>PerCore_Stateful/2/real_time</td><td>109.38 ms</td><td>110.95 ms</td><td>6</td><td>901,329 items/s</td></tr>
-<tr><td>PerCore_Stateful/3/real_time</td><td>114.58 ms</td><td>120.58 ms</td><td>6</td><td>1.2M items/s</td></tr>
-<tr><td>PerCore_Stateful/4/real_time</td><td>119.79 ms</td><td>128.05 ms</td><td>6</td><td>1.6M items/s</td></tr>
-<tr><td>PerCore_Stateful/8/real_time</td><td>152.34 ms</td><td>202.73 ms</td><td>4</td><td>2.0M items/s</td></tr>
-<tr><td>PerCore_Stateful/16/real_time</td><td>164.06 ms</td><td>379.24 ms</td><td>2</td><td>2.1M items/s</td></tr>
-<tr><td>Shared_Stateful/1/real_time</td><td>91.52 ms</td><td>93.69 ms</td><td>7</td><td>533,682 items/s</td></tr>
-<tr><td>Shared_Stateful/2/real_time</td><td>156.25 ms</td><td>155.38 ms</td><td>4</td><td>643,593 items/s</td></tr>
-<tr><td>Shared_Stateful/3/real_time</td><td>208.33 ms</td><td>208.99 ms</td><td>3</td><td>717,737 items/s</td></tr>
-<tr><td>Shared_Stateful/4/real_time</td><td>270.83 ms</td><td>269.30 ms</td><td>3</td><td>742,663 items/s</td></tr>
-<tr><td>Shared_Stateful/8/real_time</td><td>460.94 ms</td><td>519.12 ms</td><td>2</td><td>770,540 items/s</td></tr>
-<tr><td>Shared_Stateful/16/real_time</td><td>906.25 ms</td><td>1035.57 ms</td><td>1</td><td>772,519 items/s</td></tr>
+<tr><td>PerCore_Stateful/1/real_time</td><td style='color:#F59E0B;font-weight:bold;'>99.61 ms</td><td>97.73 ms</td><td>8</td><td style='color:#F59E0B;font-weight:bold;'>511,614 items/s</td></tr>
+<tr><td>PerCore_Stateful/2/real_time</td><td style='color:#F59E0B;font-weight:bold;'>109.38 ms</td><td>110.95 ms</td><td>6</td><td style='color:#F59E0B;font-weight:bold;'>901,329 items/s</td></tr>
+<tr><td>PerCore_Stateful/3/real_time</td><td style='color:#F59E0B;font-weight:bold;'>114.58 ms</td><td>120.58 ms</td><td>6</td><td style='color:#F59E0B;font-weight:bold;'>1.2M items/s</td></tr>
+<tr><td>PerCore_Stateful/4/real_time</td><td style='color:#F59E0B;font-weight:bold;'>119.79 ms</td><td>128.05 ms</td><td>6</td><td style='color:#F59E0B;font-weight:bold;'>1.6M items/s</td></tr>
+<tr><td>PerCore_Stateful/8/real_time</td><td style='color:#F59E0B;font-weight:bold;'>152.34 ms</td><td>202.73 ms</td><td>4</td><td style='color:#F59E0B;font-weight:bold;'>2.0M items/s</td></tr>
+<tr><td>PerCore_Stateful/16/real_time</td><td style='color:#F59E0B;font-weight:bold;'>164.06 ms</td><td>379.24 ms</td><td>2</td><td style='color:#F59E0B;font-weight:bold;'>2.1M items/s</td></tr>
+<tr><td>Shared_Stateful/1/real_time</td><td style='color:#F59E0B;font-weight:bold;'>91.52 ms</td><td>93.69 ms</td><td>7</td><td style='color:#F59E0B;font-weight:bold;'>533,682 items/s</td></tr>
+<tr><td>Shared_Stateful/2/real_time</td><td style='color:#F59E0B;font-weight:bold;'>156.25 ms</td><td>155.38 ms</td><td>4</td><td style='color:#F59E0B;font-weight:bold;'>643,593 items/s</td></tr>
+<tr><td>Shared_Stateful/3/real_time</td><td style='color:#F59E0B;font-weight:bold;'>208.33 ms</td><td>208.99 ms</td><td>3</td><td style='color:#F59E0B;font-weight:bold;'>717,737 items/s</td></tr>
+<tr><td>Shared_Stateful/4/real_time</td><td style='color:#F59E0B;font-weight:bold;'>270.83 ms</td><td>269.30 ms</td><td>3</td><td style='color:#F59E0B;font-weight:bold;'>742,663 items/s</td></tr>
+<tr><td>Shared_Stateful/8/real_time</td><td style='color:#F59E0B;font-weight:bold;'>460.94 ms</td><td>519.12 ms</td><td>2</td><td style='color:#F59E0B;font-weight:bold;'>770,540 items/s</td></tr>
+<tr><td>Shared_Stateful/16/real_time</td><td style='color:#F59E0B;font-weight:bold;'>906.25 ms</td><td>1035.57 ms</td><td>1</td><td style='color:#F59E0B;font-weight:bold;'>772,519 items/s</td></tr>
 
 </tbody>
 </table>

diff --git a/apex_tools/benchmark/report/generate_benchmark_report.py b/apex_tools/benchmark/report/generate_benchmark_report.py
@@ -698,7 +698,27 @@ def _bm_table_html(benchmarks, title=''):
             err_msg = b.get('error_message', 'error')
             rows += f'<tr><td>{esc(name)}</td><td colspan="4" style="color:var(--danger);text-align:center;">{esc(err_msg)}</td></tr>\n'
         else:
-            rows += f'<tr><td>{esc(name)}</td><td>{cpu}</td><td>{real}</td><td>{iters}</td><td>{tp}</td></tr>\n'
+            # Conditional coloring for cpu_time cell
+            cpu_ns = b['cpu_time']
+            cpu_style = ''
+            if cpu_ns < 10:
+                cpu_style = " style='color:#34D399;font-weight:bold;'"
+            elif cpu_ns > 100000:
+                cpu_style = " style='color:#F59E0B;font-weight:bold;'"
+
+            # Conditional coloring for throughput cell
+            ips = b.get('items_per_second', 0)
+            tp_style = ''
+            if ips > 100e6:
+                tp_style = " style='color:#34D399;font-weight:bold;'"
+            elif 0 < ips < 10e6:
+                tp_style = " style='color:#F59E0B;font-weight:bold;'"
+
+            rows += (f'<tr><td>{esc(name)}</td>'
+                     f'<td{cpu_style}>{cpu}</td>'
+                     f'<td>{real}</td>'
+                     f'<td>{iters}</td>'
+                     f'<td{tp_style}>{tp}</td></tr>\n')
 
     return f'''{header}
 <table class="data-table">
@@ -922,9 +942,20 @@ def _section_summary(cur, base, has_baseline, an, method_table_rows, summary_del
     if method_table_rows:
         rows_html = ''
         for row in method_table_rows:
+            # Color ratio values: >2x green, <1x red, 1-2x default
+            ratio_str = row[3]
+            ratio_style = ''
+            try:
+                ratio_val = float(ratio_str.replace('x', ''))
+                if ratio_val > 2.0:
+                    ratio_style = " style='color:#34D399;font-weight:bold;'"
+                elif ratio_val < 1.0:
+                    ratio_style = " style='color:#EF4444;font-weight:bold;'"
+            except (ValueError, AttributeError):
+                pass
             rows_html += f'''<tr>
   <td>{row[0]}</td><td>{row[1]}</td><td>{row[2]}</td>
-  <td><span class="ratio-badge">{row[3]}</span></td>
+  <td><span class="ratio-badge"{ratio_style}>{row[3]}</span></td>
 </tr>\n'''
         method_html = f'''
 <h3 class="sub-header">Methodology Comparison Highlights</h3>
